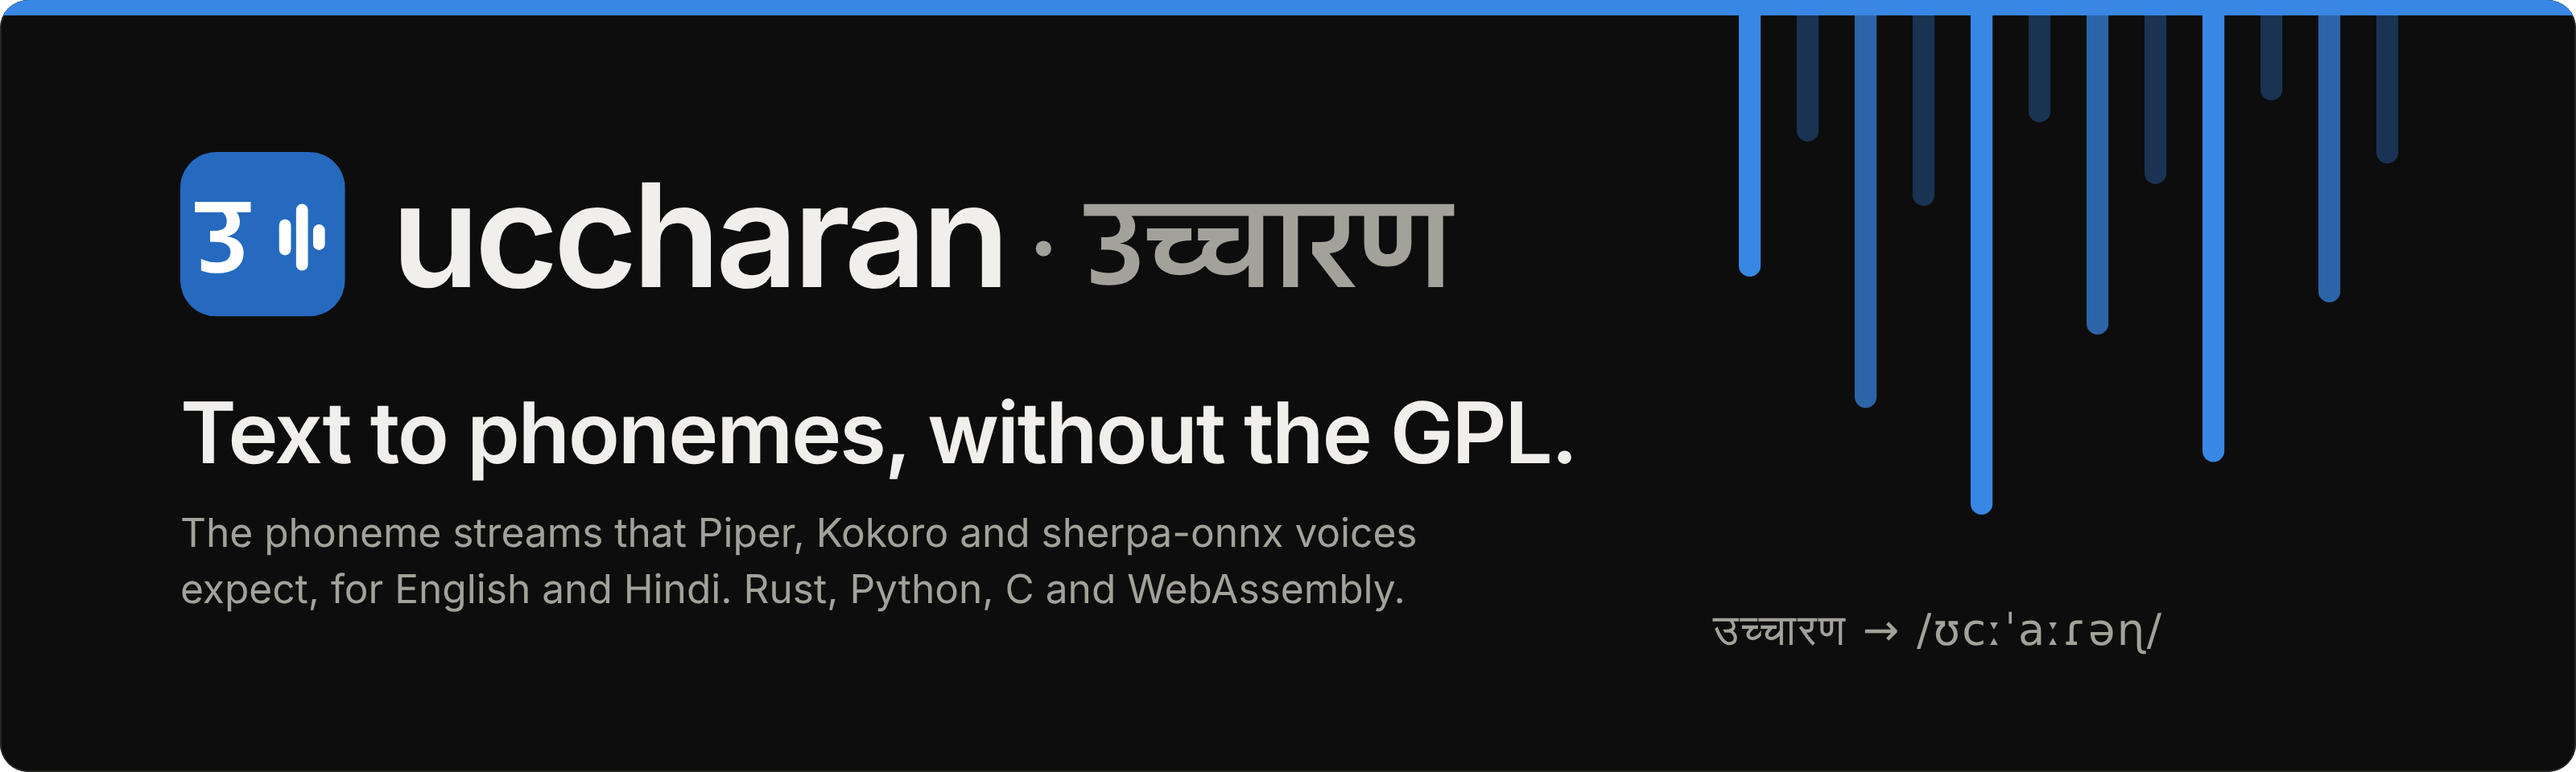
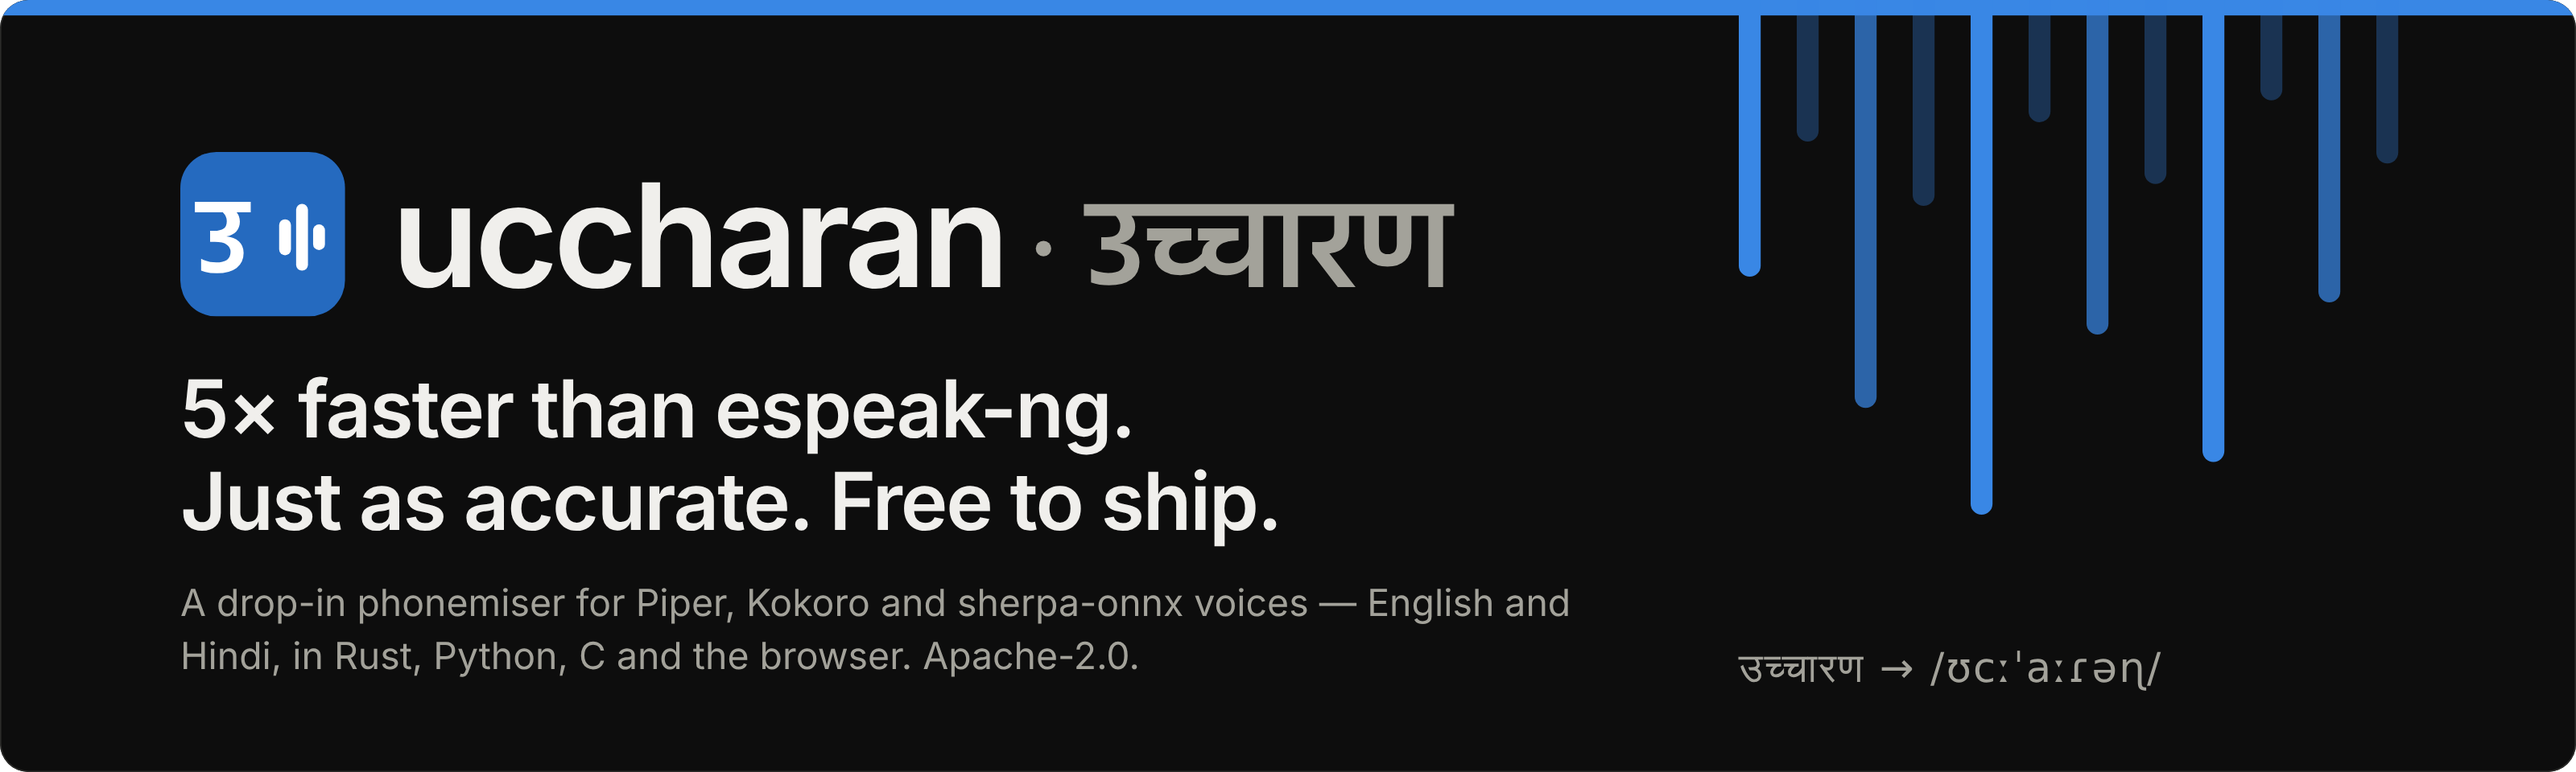
New headline: 5× faster than espeak-ng, just as accurate, free to ship
Licence credits move to the closing Licence section of each README.

Changed region(s): [[0.0625, 0.4688, 0.5938, 0.7188], [0.0625, 0.75, 0.625, 0.875], [0.6562, 0.7812, 0.8438, 0.9062]]

diff --git a/demo/index.html b/demo/index.html
@@ -3,10 +3,10 @@
 <head>
 <meta charset="utf-8">
 <meta name="viewport" content="width=device-width, initial-scale=1">
-<title>uccharan · live text-to-phoneme demo</title>
-<meta name="description" content="Type text and watch uccharan turn it into phonemes in your browser: English and Hindi, espeak-style IPA, Piper, Kokoro and sherpa-onnx profiles. Apache-2.0, WebAssembly.">
-<meta property="og:title" content="uccharan · उच्चारण">
-<meta property="og:description" content="Text to phonemes, without the GPL. Runs in your browser.">
+<title>uccharan · 5× faster than espeak-ng</title>
+<meta name="description" content="5× faster than espeak-ng. Just as accurate. Free to ship. A drop-in phonemiser for Piper, Kokoro and sherpa-onnx voices — English and Hindi, in Rust, Python, C and the browser. Apache-2.0. Try it live in your browser.">
+<meta property="og:title" content="uccharan · 5× faster than espeak-ng. Just as accurate. Free to ship.">
+<meta property="og:description" content="A drop-in phonemiser for Piper, Kokoro and sherpa-onnx voices — English and Hindi, in Rust, Python, C and the browser. Apache-2.0.">
 <meta property="og:image" content="https://cb-sigma.github.io/uccharan/og.png">
 <meta name="color-scheme" content="light dark">
 <link rel="icon" href="favicon.svg" type="image/svg+xml">
@@ -35,8 +35,10 @@
 
 <main>
   <section class="intro">
-    <h1>Text to phonemes, in your browser.</h1>
-    <p>uccharan turns text into the phoneme streams that espeak-trained voices expect. Everything on this page runs locally in WebAssembly; nothing you type leaves your device.</p>
+    <h1>5× faster than espeak-ng. Just as accurate. Free to ship.</h1>
+    <p>A drop-in phonemiser for Piper, Kokoro and sherpa-onnx voices — English and Hindi, in Rust, Python, C and the browser. Apache-2.0.</p>
+    <p class="proof"><a href="https://github.com/cB-Sigma/uccharan/blob/main/docs/evaluation.md#5-speed-start-up-memory-and-size">10 µs per sentence vs 53 µs</a> · <a href="https://github.com/cB-Sigma/uccharan/blob/main/docs/evaluation.md#2-end-to-end-real-voices-real-speech-recognition">same word error rate through Piper and Kokoro voices</a> · <a href="https://github.com/cB-Sigma/uccharan/blob/main/DATA_LICENSES.md">no GPL anywhere</a></p>
+    <p class="note-local">Everything on this page runs locally in WebAssembly; nothing you type leaves your device.</p>
   </section>
 
   <section class="panel" aria-label="Phonemizer">

diff --git a/demo/style.css b/demo/style.css
@@ -26,7 +26,9 @@ nav a { color: var(--second); }
 #theme { display: grid; place-items: center; width: 34px; height: 34px; border-radius: 9px; border: 1px solid var(--line); background: var(--card); color: var(--ink); cursor: pointer; }
 main { max-width: 980px; margin: 0 auto; padding: 8px 20px 40px; }
 .intro h1 { font-size: clamp(28px, 5vw, 42px); line-height: 1.12; letter-spacing: -0.025em; margin: 26px 0 10px; font-weight: 650; }
-.intro p { color: var(--second); max-width: 640px; margin: 0 0 24px; font-size: 17px; }
+.intro p { color: var(--second); max-width: 680px; margin: 0 0 10px; font-size: 17px; }
+.intro .proof { font-size: 14px; margin-bottom: 6px; }
+.intro .note-local { font-size: 14px; margin-bottom: 24px; }
 .panel { background: var(--card); border: 1px solid var(--line); border-radius: 16px; padding: 18px; }
 .controls { display: flex; flex-wrap: wrap; gap: 12px 14px; align-items: flex-end; margin-bottom: 14px; }
 .field { display: grid; gap: 4px; font-size: 12px; color: var(--second); min-width: 150px; flex: 1 1 150px; }

diff --git a/tools/brand/build.py b/tools/brand/build.py
@@ -147,10 +147,10 @@ def main() -> None:
         second = SECOND_DARK if dark else SECOND_LIGHT
         inner = (
             f'<svg style="position:absolute;left:140px;top:118px" width="{width * k:.0f}" height="{64 * k:.0f}" viewBox="0 0 {width:.0f} 64">{body}</svg>'
-            '<div style="position:absolute;left:140px;top:296px;font-weight:600;font-size:66px;letter-spacing:-0.022em">Text to phonemes, without the GPL.</div>'
-            f'<div class="second" style="position:absolute;left:140px;top:392px;font-size:31px;line-height:44px;width:1050px">'
-            "The phoneme streams that Piper, Kokoro and sherpa-onnx voices expect, for English and Hindi. Rust, Python, C and WebAssembly.</div>"
-            f'<div class="ipa" style="position:absolute;left:1330px;top:470px;font-size:34px;color:{second};letter-spacing:0.04em">उच्चारण → /ʊcːˈaːɾəɳ/</div>'
+            '<div style="position:absolute;left:140px;top:282px;font-weight:600;font-size:62px;line-height:72px;letter-spacing:-0.022em">5× faster than espeak-ng.<br>Just as accurate. Free to ship.</div>'
+            f'<div class="second" style="position:absolute;left:140px;top:448px;font-size:29px;line-height:41px;width:1120px">'
+            "A drop-in phonemiser for Piper, Kokoro and sherpa-onnx voices — English and Hindi, in Rust, Python, C and the browser. Apache-2.0.</div>"
+            f'<div class="ipa" style="position:absolute;left:1350px;top:500px;font-size:32px;color:{second};letter-spacing:0.04em">उच्चारण → /ʊcːˈaːɾəɳ/</div>'
             + motif(dark, 1350, 0, 1.0)
         )
         (WORK / f"banner-{'dark' if dark else 'light'}.html").write_text(page(dark, 2000, 600, fonts, inner, radius=22), encoding="utf-8")
@@ -158,9 +158,9 @@ def main() -> None:
     k = 1.55
     inner = (
         f'<svg style="position:absolute;left:96px;top:100px" width="{width * k:.0f}" height="{64 * k:.0f}" viewBox="0 0 {width:.0f} 64">{body}</svg>'
-        '<div style="position:absolute;left:96px;top:274px;font-weight:600;font-size:60px;letter-spacing:-0.022em">Text to phonemes,<br>without the GPL.</div>'
-        f'<div class="second" style="position:absolute;left:96px;top:440px;font-size:28px;line-height:40px;width:900px">'
-        "The phoneme streams that Piper, Kokoro and sherpa-onnx voices expect.</div>"
+        '<div style="position:absolute;left:96px;top:250px;font-weight:600;font-size:52px;line-height:62px;letter-spacing:-0.022em">5× faster than espeak-ng.<br>Just as accurate. Free to ship.</div>'
+        f'<div class="second" style="position:absolute;left:96px;top:398px;font-size:25px;line-height:36px;width:880px">'
+        "A drop-in phonemiser for Piper, Kokoro and sherpa-onnx voices — English and Hindi, in Rust, Python, C and the browser. Apache-2.0.</div>"
         f'<div style="position:absolute;left:96px;top:548px;font-size:23px;font-weight:500">English <span class="second">&nbsp;•&nbsp;</span> Hindi <span class="second">&nbsp;•&nbsp;</span> Hinglish'
         f'<span class="second"> &nbsp;•&nbsp; Rust · Python · C · WebAssembly &nbsp;•&nbsp; Apache-2.0</span></div>'
         + motif(True, 940, 0, 0.73)

diff --git a/README.md b/README.md
@@ -2,9 +2,22 @@
   <picture>
     <source media="(prefers-color-scheme: dark)" srcset="docs/assets/brand/banner-dark.png">
     <source media="(prefers-color-scheme: light)" srcset="docs/assets/brand/banner-light.png">
-    <img alt="uccharan · उच्चारण — text to phonemes, without the GPL" src="docs/assets/brand/banner-light.png" width="800">
+    <img alt="uccharan · उच्चारण — 5× faster than espeak-ng. Just as accurate. Free to ship." src="docs/assets/brand/banner-light.png" width="800">
   </picture>
 </p>
+
+<h3 align="center">5× faster than espeak-ng. Just as accurate. Free to ship.</h3>
+
+<p align="center">
+  A drop-in phonemiser for Piper, Kokoro and sherpa-onnx voices — English and Hindi, in Rust,
+  Python, C and the browser. Apache-2.0.
+</p>
+
+<p align="center"><sub>
+  <a href="docs/evaluation.md#5-speed-start-up-memory-and-size">10 µs per sentence vs 53 µs</a> ·
+  <a href="docs/evaluation.md#2-end-to-end-real-voices-real-speech-recognition">same word error rate through Piper and Kokoro voices</a> ·
+  <a href="DATA_LICENSES.md">no GPL anywhere</a>
+</sub></p>
 
 <p align="center">
   <a href="https://github.com/cB-Sigma/uccharan/actions/workflows/ci.yml"><img alt="CI" src="https://github.com/cB-Sigma/uccharan/actions/workflows/ci.yml/badge.svg"></a>
@@ -204,9 +217,9 @@ date, please open an issue.
 
 ## Licence and provenance
 
-Code: Apache-2.0. Data: the English lexicon is derived from the CMU Pronouncing Dictionary
-(BSD-2-Clause, notice in [NOTICE](NOTICE)); the Kokoro English dictionaries are misaki's
-(Apache-2.0); every other table was written by hand for this project. [DATA_LICENSES.md](DATA_LICENSES.md) lists every file.
+Licence: Apache-2.0. Includes data from the CMU Pronouncing Dictionary (BSD-2-Clause) and misaki
+(Apache-2.0); see [NOTICE](NOTICE). Every other table was written by hand for this project;
+[DATA_LICENSES.md](DATA_LICENSES.md) lists every file.
 
 uccharan contains no espeak-ng code, rules or dictionary data. The Kokoro English front end is a port
 of misaki's Apache-2.0 code and ships misaki 0.9.4's English dictionaries unchanged under their

diff --git a/crates/uccharan/README.md b/crates/uccharan/README.md
@@ -1,5 +1,9 @@
 # uccharan
 
+**5× faster than espeak-ng. Just as accurate. Free to ship.**
+A drop-in phonemiser for Piper, Kokoro and sherpa-onnx voices — English and Hindi, in Rust, Python,
+C and the browser. Apache-2.0. ([measurements](https://github.com/cB-Sigma/uccharan/blob/main/docs/evaluation.md))
+
 Permissively licensed text-to-phoneme conversion for neural text-to-speech: English (US and
 British RP), Hindi and code-mixed Hindi + English, producing the phoneme streams that
 espeak-trained voices expect (Piper, Kokoro, Kitten TTS, Matcha-TTS, sherpa-onnx), with no GPL
@@ -26,5 +30,8 @@ profile) is compiled in through the default `embed-*` features; turn them
 off and use `Phonemizer::load` to supply it at run time.
 
 Measured agreement with the reference, speed and the end-to-end results are in the repository:
-<https://github.com/cB-Sigma/uccharan>. Licence: Apache-2.0; the English lexicon is derived from
-CMUdict (BSD-2-Clause), see `NOTICE` and `DATA_LICENSES.md`.
+<https://github.com/cB-Sigma/uccharan>.
+
+## Licence
+
+Licence: Apache-2.0. Includes data from the CMU Pronouncing Dictionary (BSD-2-Clause) and misaki (Apache-2.0); see NOTICE.

diff --git a/bindings/wasm/README.md b/bindings/wasm/README.md
@@ -1,5 +1,9 @@
 # uccharan (JavaScript / WebAssembly)
 
+**5× faster than espeak-ng. Just as accurate. Free to ship.**
+A drop-in phonemiser for Piper, Kokoro and sherpa-onnx voices — English and Hindi, in Rust, Python,
+C and the browser. Apache-2.0. ([measurements](https://github.com/cB-Sigma/uccharan/blob/main/docs/evaluation.md))
+
 Permissively licensed text-to-phoneme conversion for neural TTS in the browser and in Node:
 English (US, British RP), Hindi and Hinglish, in the shapes Piper, Kokoro, Kitten TTS, Matcha-TTS
 and sherpa-onnx voices expect. No GPL code or data.
@@ -26,5 +30,8 @@ about 3 MB each); point
 `await loadLanguage(...)`, `phonemizeSync` runs without awaiting.
 
 Live demo: <https://cb-sigma.github.io/uccharan/>. Documentation and measurements:
-<https://github.com/cB-Sigma/uccharan>. Licence: Apache-2.0; English data derived from CMUdict
-(BSD-2-Clause).
+<https://github.com/cB-Sigma/uccharan>.
+
+## Licence
+
+Licence: Apache-2.0. Includes data from the CMU Pronouncing Dictionary (BSD-2-Clause) and misaki (Apache-2.0); see NOTICE.

diff --git a/crates/uccharan-capi/README.md b/crates/uccharan-capi/README.md
@@ -1,5 +1,9 @@
 # uccharan-capi
 
+**5× faster than espeak-ng. Just as accurate. Free to ship.**
+A drop-in phonemiser for Piper, Kokoro and sherpa-onnx voices — English and Hindi, in Rust, Python,
+C and the browser. Apache-2.0. ([measurements](https://github.com/cB-Sigma/uccharan/blob/main/docs/evaluation.md))
+
 C ABI for [uccharan](https://github.com/cB-Sigma/uccharan): a shared and a static library plus
 `include/uccharan.h`.
 
@@ -19,4 +23,6 @@ Build: `cargo build --release -p uccharan-capi` → `target/release/libuccharan.
 `uccharan_string_free`. Flags: `UCCHARAN_IMPROVED`, `UCCHARAN_HINGLISH`,
 `UCCHARAN_NORMALIZE_ESPEAK`, `UCCHARAN_NORMALIZE_OFF`, `UCCHARAN_NO_PUNCTUATION`.
 
-Licence: Apache-2.0 (see `NOTICE` and `DATA_LICENSES.md` for the bundled data).
+## Licence
+
+Licence: Apache-2.0. Includes data from the CMU Pronouncing Dictionary (BSD-2-Clause) and misaki (Apache-2.0); see NOTICE.
